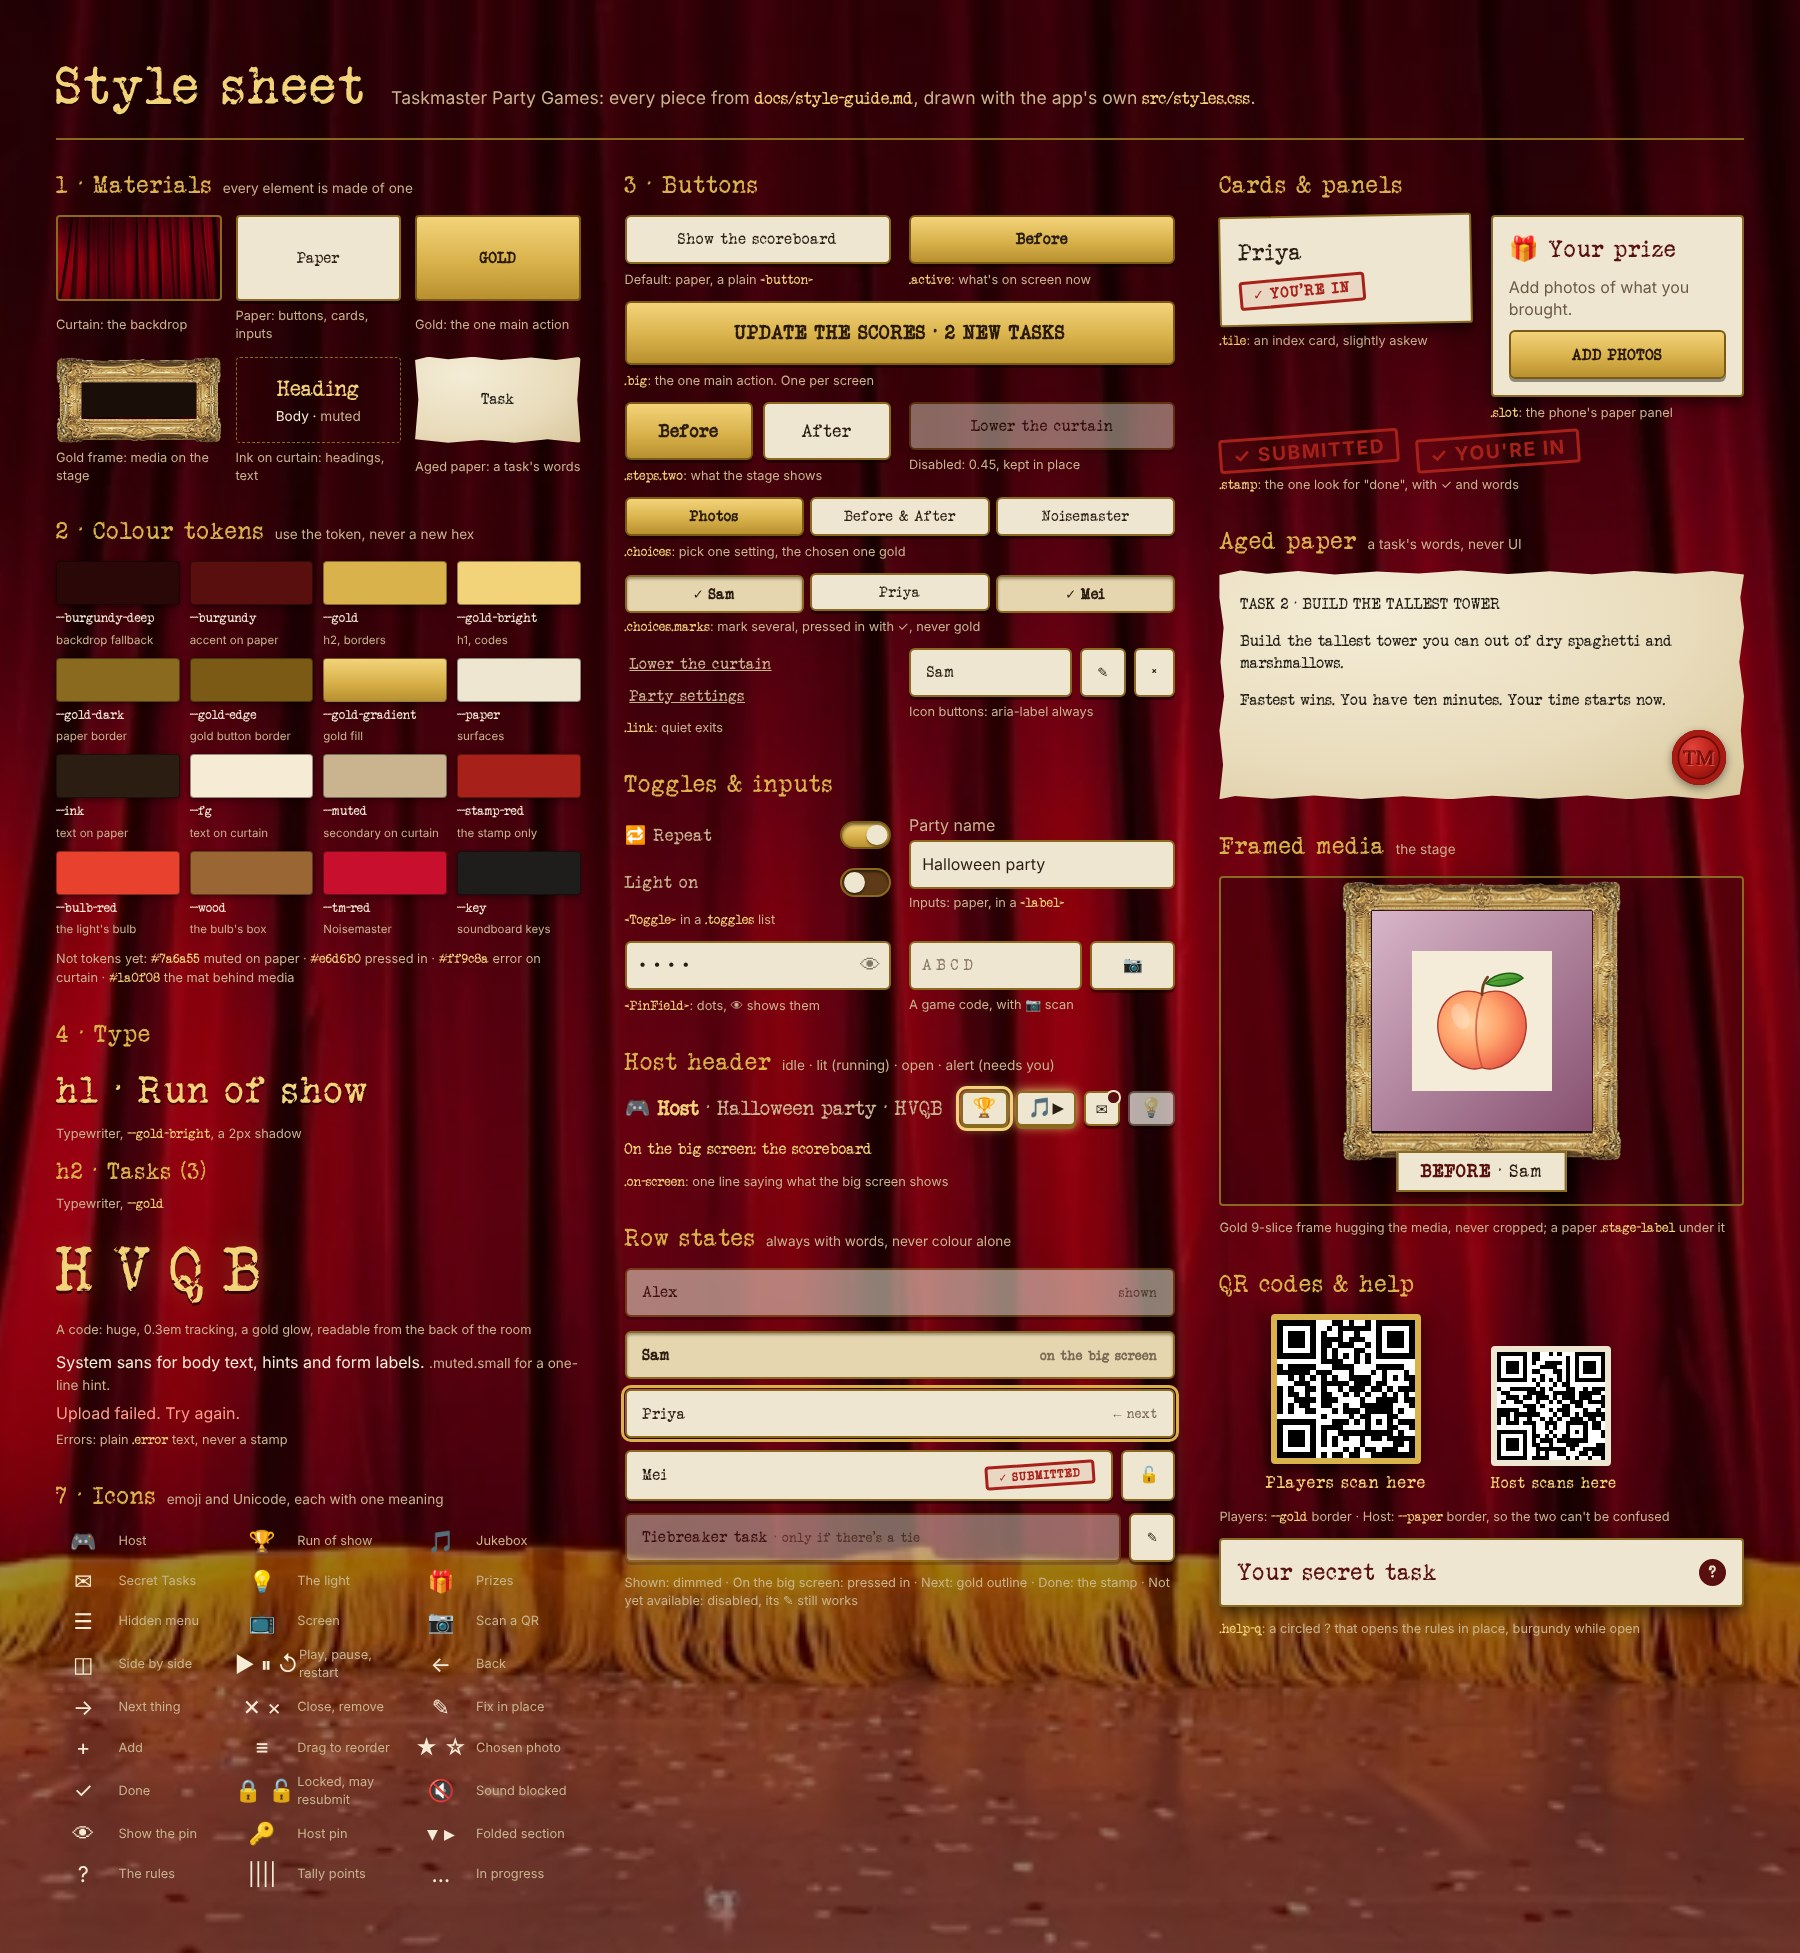
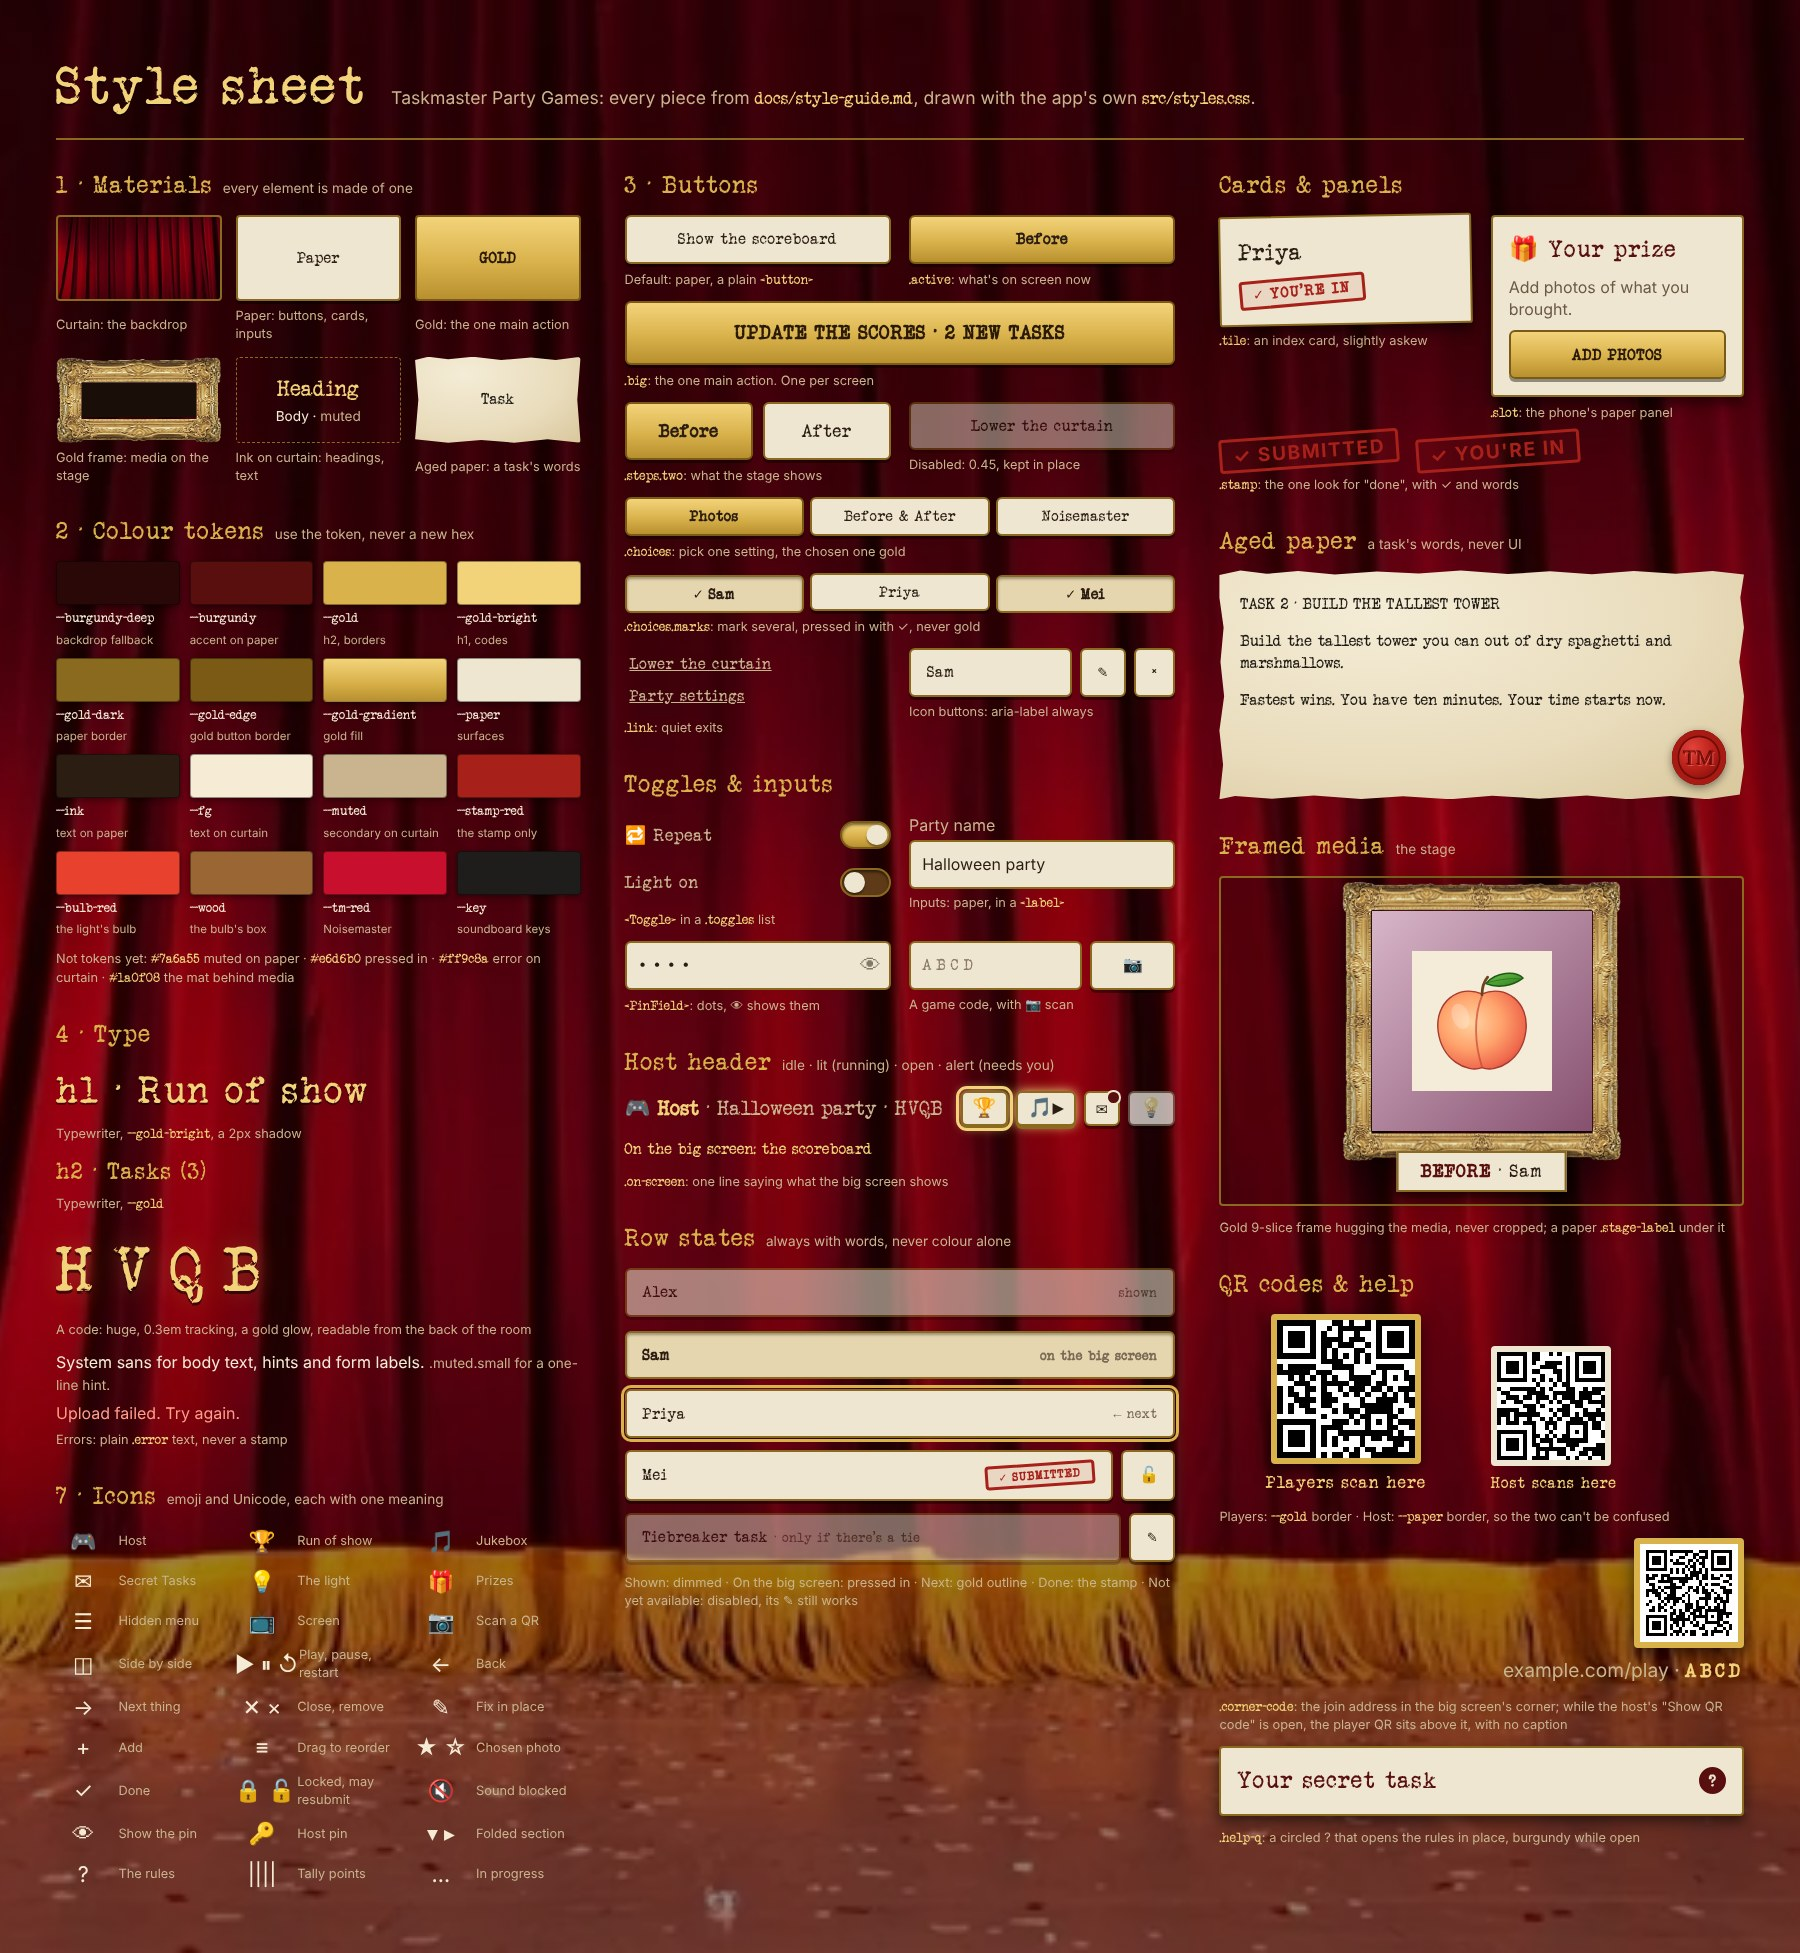
Noisemaster tried on Windows: ticked off. Style sheet shows the corner code with its QR
Claude-Session: https://claude.ai/code/session_01TKXhnQ36nD5t2WY2mbvQSy

Changed region(s): [[0.6533, 0.7808, 0.9956, 0.937]]

diff --git a/docs/style-sheet/sheet.tsx b/docs/style-sheet/sheet.tsx
@@ -149,6 +149,11 @@ function Sheet() {
               <figure className="host-qr"><QRCodeSVG value="https://example.com/host" style={{ width: 120, height: 120 }} /><figcaption>Host scans here</figcaption></figure>
             </div>
             <Cap>Players: <code>--gold</code> border · Host: <code>--paper</code> border, so the two can't be confused</Cap>
+            <div className="corner-code" style={{ position: "static", justifySelf: "end" }}>
+              <QRCodeSVG value="https://example.com/play?code=ABCD" bgColor="#fff" marginSize={2} style={{ width: 110, height: 110 }} />
+              <p>example.com/play · <strong>ABCD</strong></p>
+            </div>
+            <Cap><code>.corner-code</code>: the join address in the big screen's corner; while the host's "Show QR code" is open, the player QR sits above it, with no caption</Cap>
             <div className="slot" style={{ gridTemplateColumns: "1fr auto", alignItems: "center" }}><h2>Your secret task</h2><button className="help-q" aria-expanded>?</button></div>
             <Cap><code>.help-q</code>: a circled ? that opens the rules in place, burgundy while open</Cap>
           </Sec>

diff --git a/docs/backlog.md b/docs/backlog.md
@@ -4,7 +4,7 @@ Status: nothing here is fixed yet. Notes under each item are initial diagnosis o
 
 ## Still to fix (added 2026-10-13)
 - [x] Whenever a new task is started, update the scoreboard, even though it hasn't been shown yet. Built: a task's first points (or ▶ Start) catch the big screen's totals up on every other task (see "One task per reveal" in `docs/redesign-decisions.md`).
-- [ ] Make sure Noisemaster works in Chrome on Windows. The speech handling change is merged; it still needs a try on a Windows PC after the next deploy.
+- [x] Make sure Noisemaster works in Chrome on Windows. The speech handling change is merged; it still needs a try on a Windows PC after the next deploy. Tried 2026-10-14: it works, though words are sometimes a little delayed and it's less snappy than on the Mac.
 - [x] When "Show QR code" is tapped on the host remote, also show the QR on the stage, just above the URL and code. Hiding it on the host hides it on the stage too. Built: only on screens that already have the corner line (see "Show QR code" in `docs/redesign-decisions.md`).
 
 ## Bugs
